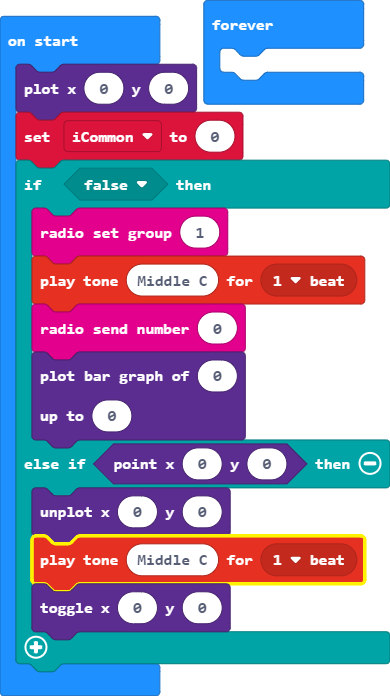
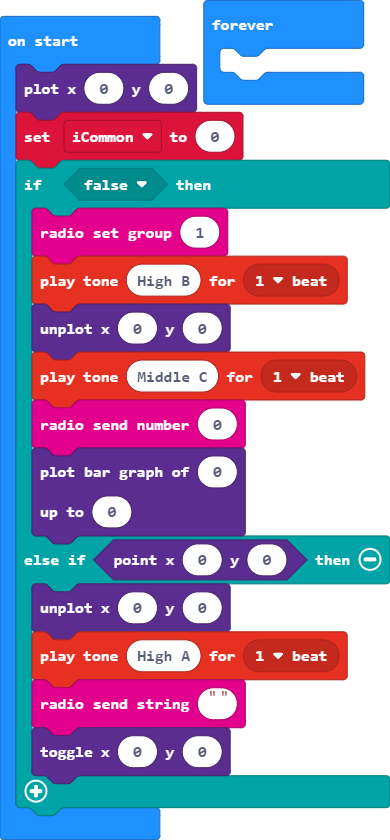
Update main.blocks, main.ts

diff --git a/main.ts b/main.ts
@@ -2,6 +2,8 @@ led.plot(0, 0)
 let iCommon = 0
 if (false) {
     radio.setGroup(1)
+    music.playTone(988, music.beat(BeatFraction.Whole))
+    led.unplot(0, 0)
     music.playTone(262, music.beat(BeatFraction.Whole))
     radio.sendNumber(0)
     led.plotBarGraph(
@@ -10,7 +12,8 @@ if (false) {
     )
 } else if (led.point(0, 0)) {
     led.unplot(0, 0)
-    music.playTone(262, music.beat(BeatFraction.Whole))
+    music.playTone(880, music.beat(BeatFraction.Whole))
+    radio.sendString("")
     led.toggle(0, 0)
 }
 basic.forever(function () {
